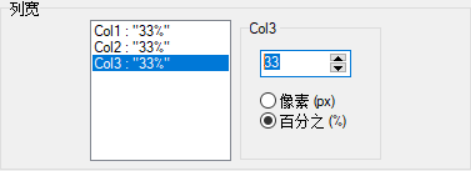
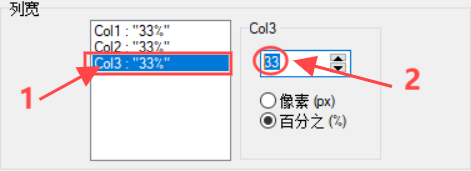
1

diff --git a/编辑守则/示范页面/第二卷_神话神祗.htm b/编辑守则/示范页面/第二卷_神话神祗.htm
@@ -1,0 +1,46 @@
+<!-- coding: gbk --><!DOCTYPE HTML PUBLIC "-//W3C//DTD HTML 4.01 Transitional//EN">
+<html>
+<head>
+<title>第二卷 神话神祗</title>
+<meta name="GENERATOR" content="WinCHM">
+<meta http-equiv="Content-Type" content="text/html; charset=UTF-8">
+<style>
+html,body { 
+	font-family: Arial, Helvetica, sans-serif;
+}
+</style>
+
+</head>
+
+<body>
+<P><STRONG><FONT color=#800000 size=5>前言</FONT></STRONG></P>
+<P>新手守秘人与初接触克苏鲁神话的人起初可能会对于本卷中庞大的条目数量感到无所适从。最好的建议就是反复翻阅这些内容，理解其中信息，然后不断回头查阅，为准备游戏和设计战役与模组获取有用的资料与灵感。</P>
+<P>经验丰富的守秘人和克苏鲁神话迷也可能会在这本书中发现一两处惊喜之处。书中厘清或模糊了一些细节，以更加符合克苏鲁神话的本质。你可以以适合你自己的战役与冒险的方式使用、无视或更改这些条目内容。克苏鲁神话不是一成不变的，也无需以协调一致的方式运行。关于动机、目的、特征与历史的信息可能是相互矛盾、令人难以理解的——这就是重点，克苏鲁神话并不是可知的，它也不应是可知的。</P>
+<P>拥抱那些奇诡、混乱、无可想象之物吧！</P>
+<P align=right>--Mike Mason, 2020</P>
+<P align=right>
+<TABLE style="WIDTH: 100%; BORDER-COLLAPSE: collapse" borderColor=#000000 
+cellSpacing=0 cellPadding=2 width="100%" bgColor=#fffbf0 border=1>
+<TR>
+<TD><H3><FONT style="BACKGROUND-COLOR: #fffbf0" ></FONT>汉森·波普兰爵士的研究日志</H3>
+<P>本书各处散布着汉森·波普兰爵士研究日志的选段。用他本人的话来说：</P>
+<P><STRONG><EM>“我的研究起始于对一个名为克苏鲁的神祇本质的研究。我接触到了一些记录，内容关于 
+      1925 
+      年初发生在太平洋上的一起与“警戒”号货轮有关的重大航运事故。这个研究课题就是由这些记录而引发的。当时我浑然不知，这条研究之路从此将耗尽我的余生！”</EM></STRONG>  </P>
+<P><STRONG><EM>“当我发现克苏鲁似乎是某种遍布全球的复杂神话的核心时，我大为惊讶。因此，我花了八年的时间在世界各处搜寻有关这一怪异神话体系的资料。”</EM></STRONG></P>
+<P><STRONG><EM>“有时，我的研究将我引领到了一些黑暗的地方，我试图建立起联系、总结出结论，结果却令我心烦意乱。我并不是声称自己已经找到了全部的答案，许多路径都将我带进了死胡同，或延伸向了我不敢踏足的领域。”</EM></STRONG></P>
+<P><STRONG><EM>“我提供出我的日志，作为我所学所知的总汇，也是作为那些大多数学者拒绝相信的奥秘的注解与证据。它们同样还是一则警告，但我恐怕自己就是当代的卡珊德拉，受到了诅咒，了解真相却永远不会被同侪相信。”</EM></STRONG></P>
+<P>需要注意的是，汉森爵士的文章本质上仅仅是推测性质的，需要持保留意见看待。不过，其中见解依旧引人入胜、发人深思。本书中的选段并非遵循任何特定的写作顺序；它们只是被安排在适应于正文的位置，并依此相应编排。</P>
+<P><STRONG>注释：</STRONG>如果读者想要联系汉森·波普兰爵士以获取更深入的见解，出版商建议读者联系伦敦梅菲尔区沃德斯顿和弗利蒂克事务所的 
+      R.H. 
+      沃德斯顿先生。他负责管理波普兰家产，以及继续搜寻汉森爵士。出版商要求，任何有关汉森爵士下落的信件也应直接寄给沃德斯顿和弗利蒂克事务所。</P></TD></TR></TABLE>  </P>
+<P></P>
+<P><STRONG><FONT color=#800000 size=5>介绍</FONT></STRONG></P>
+<P>本卷内容为克苏鲁神话中那些怪异恐怖的神祇的详细信息。本卷条目来自于《克苏鲁的呼唤》游戏历史内容，介绍了大量的旧日支配者、外神、旧神、化身与独特存在。书中既出现了众多备受喜爱的神话存在——阿撒托斯、伟大的克苏鲁、撒托古亚、犹格 - 索托斯——也有大量不甚常见的创作，例如比亚提斯、伊德 - 雅、兰·提戈斯和沃尔瓦多斯。尽管并非每位曾为小说与游戏增光添彩的克苏鲁神话神祇都包含于此，不过本卷总计包含 110 条条目，它们共同构成了对于异界存在的生动描绘，为探索未知的调查员带来恐惧与疯狂。</P>
+<P>为方便起见，全书使用“神”“神祇”等术语指代这些庞大的克苏鲁神话存在。所有神祇的条目按照字母表顺序排列，并都经过了调整、修订和更新，大量增加了关于其起源、意旨及与克苏鲁神话整体关系的内容。此外，增添的内容还包括与每一存在相关的教团，可能给予追随者的赐福，以及关于这些存在在模组和战役中可能如何与调查员遭遇、如何影响事件的一些想法。</P>
+<P>每一条目都给出了丰富的信息，旨在让这些存在在游戏桌上更加生动鲜活，并鼓励守秘人以这些怪异骇人的存在为中心创作自己的情节。书中还给出了关于如何自行创造和使用克苏鲁神话神祇的建议，鼓励守秘人进一步扩展克苏鲁神话的边界，在前人优秀作品的基础上继续创作。</P>
+<P>克苏鲁神话对于人类而言是不可知的。我们所知的零碎信息大都来自于罕见而残缺的文本、与巫师和女巫的对话、以及改变命运的遭遇。因此，每一条目都强调了关于对应存在现有的、往往相互冲突的资料，供守秘人自行得出结论，塑造出符合自身对克苏鲁神话概念理解的神话存在。所谓“标准”是零散而不可信赖的。事实上，将旧日支配者这种类似神祇的存在进行区分归类远超出人类能力范畴，不过，在能够应用标准的范围内，我们尽力进行了一定程度的分类，划分出了一个粗略的层级体系。然而，本书所写的任何内容都应以保留意见看待，因为克苏鲁神话是易受影响、常有变化而充满主观因素的。</P>
+<P>本书建立在 Scott David Aniolowski 奉献心血与研究于 2006 年完成的第一版《怪物之锤》基础之上。与第一版相比，新版本旨在为玩家和希望对克苏鲁神话有深入了解的人提供更多可以消化理解的内容。总之，我们希望你能在书中发现新奇的、出乎意料的、引起兴趣的内容，能够将克苏鲁神话存在恐怖的风采生动而完全地展现在你的游戏之中。</P>
+<P>最后，感谢自洛夫克拉夫特起与我们分享幻想与梦魇的所有作家、画师与创作者，没有他们就不会有克苏鲁。希望你能汲取他们的灵感，并从中受到启发。</P>
+</body>
+</html>

diff --git a/Winchm/为页面添加其他元素.htm b/Winchm/为页面添加其他元素.htm
@@ -86,14 +86,56 @@ cellSpacing=0 cellPadding=2 width="100%" bgColor=#fffbf0 border=1><TR>
 <P><IMG border=1 alt="" src="images/91.png" width="70%"></P>
 <H4>编辑表格属性</H4>
 <P>下面我们介绍如何编辑整个表格的属性。</P>
+<P>首先右键点击表格然后在弹窗里选择【表格属性...】。</P>
 <P><IMG border=1 alt="" src="images/92.png" width="70%"></P>
+<P>然后会出现下图所示的弹窗。在 winchm 里可编辑的属性如下图所示（但是行和列没法在这个弹窗里编辑，应该是 
+bug）。但在不全书里，绝大多数情况只用编辑表格的列宽。</P>
+<P>注意的是，为了不同的设备，表格宽度后面的单位是百分比（意思是在阅读器页面的占比），而不是 xp（像素）。</P>
 <P><IMG border=1 alt="" src="images/93.png" width="70%"></P>
+<H4>编辑表格列宽</H4>
+<P>除非列与列之间的字数差距十分巨大，为了更良好美观的阅读体验，表格内列宽要保持一致。</P>
+<P>在列宽这里，白框中每行【Col：】都代表着一列，点击其中一个【Col：】，然后再在右边进行编辑。</P>
+<P>计算100除以该表格的列数，然后向下取整，将取整得来的数填入【Col：】中。此外编辑时要确认下面勾选的是【百分比（%）】。</P>
 <P><IMG border=1 alt="" src="images/94.png" width="70%"></P>
+<P>然后点击应用，就可以更改表格分布了。</P>
 <P><IMG border=1 alt="" src="images/95.png" width="70%"></P>
+<H4>编辑单元格属性</H4>
+<P>如果我们不想选中全部的表格，只是想单独编辑某个单元格或者某行某列的话，我们右键点击要编辑的地方，然后点击【单元格属性】。</P>
 <P><IMG border=1 alt="" src="images/96.png" width="70%"></P>
-<P><IMG border=1 alt="" src="images/97.png" width="70%"></P>
+<P>然后就会出现如下图所示的弹窗，在红框内勾选就能编辑对应的选项。</P>
 <P><IMG border=1 alt="" src="images/98.png" width="70%"></P>
+<H4>编辑单元格背景颜色</H4>
+<P>在一般时候，我们会编辑单元格颜色，以突出文字。</P>
+<P>首先，按照上面的步骤打开编辑单元格弹窗。在选中要编辑的选项后，勾选背景色。</P>
+<P>然后在旁边的文本框内填入颜色值（也就是一种颜色对应的代码），或者是点击右边的颜色区块在新弹窗内选择颜色。</P>
+<P><IMG border=1 alt="" src="images/97.png" width="70%"></P>
+<P>一般来讲表格用上的颜色如下：</P>
+<P>
+<TABLE style="BORDER-COLLAPSE: collapse" borderColor=#000000 cellSpacing=0 
+cellPadding=2 width="50%" bgColor=#f5c589 border=1>
+  
+  <TR>
+    <TD>&nbsp;#f5c589</TD></TR></TABLE>用在表头</P>
+<P>
+<TABLE style="BORDER-COLLAPSE: collapse" borderColor=#000000 cellSpacing=0 
+cellPadding=2 width="50%" bgColor=#fffbf0 border=1>
+  
+  <TR>
+    <TD>&nbsp;#fffbf0</TD></TR></TABLE></P>
+<P>
+<TABLE style="BORDER-COLLAPSE: collapse" borderColor=#000000 cellSpacing=0 
+cellPadding=2 width="50%" bgColor=#ffffff border=1>
+  
+  <TR>
+    <TD>&nbsp;#ffffff</TD></TR></TABLE>以上两种颜色轮流穿插于表格中。</P>
+<P>学会上面的步骤后，就可以编辑如下图所示一样美观的表格了！</P>
 <P><IMG border=1 alt="" src="images/99.png" width="70%"></P>
-<P><IMG border=1 alt="" src="images/100.png" width="70%"></P>
+<P>
+<TABLE border=1 style="WIDTH: 100%; BORDER-COLLAPSE: collapse" borderColor=#000000 cellSpacing=0 cellPadding=2 bgColor=#fffbf0 width="100%">
+<TR>
+<TD><H4>进阶：编辑更复杂的表格</H4><P>&nbsp;winchm 编辑表格的功能十分有限，单在 winchm 
+      上没法实现跨行、跨列单元格的功能，如果你想制作跟下图一样精美的表格的话，请查看<STRONG>从源代码编辑不全书：表格</STRONG>部分。</P>
+</TD></TR></TABLE></P>
+<P><IMG border=1 alt="" src="images/100.png" width="100%"></P>
 </body>
 </html>

diff --git a/编辑守则/示范页面/创建调查员.htm b/编辑守则/示范页面/创建调查员.htm
@@ -1,0 +1,33 @@
+<!DOCTYPE HTML PUBLIC "-//W3C//DTD HTML 4.01 Transitional//EN">
+<html>
+<head>
+<title>创建调查员</title>
+<meta name="GENERATOR" content="WinCHM">
+<meta http-equiv="Content-Type" content="text/html; charset=UTF-8">
+<style>
+html,body { 
+	/* Default Font */
+	font-family: Arial, Helvetica, sans-serif;
+	
+}
+</style>
+
+</head>
+
+<body>
+<P><STRONG><FONT color=#800000 size=5>创建调查员</FONT></STRONG></P>
+<P><EM>在所有冲击中最为凶恶的，是那完全出乎意料、难以置信的恐怖。我曾经历过的一切恐怖都不及如今所见，不及这图景中蕴含着的离奇与惊异。<BR>——H.P. 洛夫克拉夫特《异乡人》</FONT> 
+</EM></P>
+<P><STRONG><FONT color=#800000 size=5>关于本章</FONT></STRONG></P>
+<P>在《克苏鲁的呼唤》里，每位玩家都将扮演一位调查员，他们的使命是挖掘深埋的秘密，探索被遗忘之地，以人类不应知晓的禁忌知识武装自己，正面对抗来自克苏鲁神话的恐怖之物。</P>
+<P>作为一个团队，调查员们可能来自不同的背景，拥有不同的职业——每个人都会给团队带来不同的专业知识。为了同伴情义与共同的目标，你们将坚定地面对即将袭来的黑暗潮汐。</P>
+<P>本章提供用于创建调查员角色的规则。在本章末尾，你可以找到一些创建调查员的变体方案，以及一张两页的大跨页，它将提供规则摘要以供速查。</P>
+<P><FONT style="BACKGROUND-COLOR: #f7eebd">
+<TABLE style="BORDER-COLLAPSE: collapse" borderColor=#000000 cellSpacing=0 
+cellPadding=2 width="100%" bgColor=#fffbf0 border=1>
+  
+<TR>
+  <TD>
+      <P><FONT style="BACKGROUND-COLOR: #fffbf0" >从零开始创建自己的调查员可谓充满了乐趣，这些规则将详细说明如何为调查员投掷数据，选择职业和技能，设定个人经历。在开始玩《克苏鲁的呼唤》时，建议所有玩家一同为他们的调查员进行“掷骰”，并和守秘人一起确定各自调查员的职责——这将帮助每位调查员都“来自”同一团队，承担不同的职责，以确保技能和职业分布平衡。</P></TD></TR></TABLE><BR></P></FONT></body><BR>
+<BR>
+</html>

diff --git a/编辑守则/编辑守则.htm b/编辑守则/编辑守则.htm
@@ -1,0 +1,25 @@
+<!-- coding: gbk --><!DOCTYPE HTML PUBLIC "-//W3C//DTD HTML 4.01 Transitional//EN">
+<html>
+<head>
+<title>编辑守则</title>
+<meta name="GENERATOR" content="WinCHM">
+<meta http-equiv="Content-Type" content="text/html; charset=UTF-8">
+<style>
+html,body { 
+	font-family: Arial, Helvetica, sans-serif;
+}
+</style>
+
+</head>
+
+<body>
+<P><STRONG><FONT color=#800000 size=5>编辑守则</FONT></STRONG></P>
+<P>我们在上面已经介绍了如何参与项目，与如何编辑不全书了，下面我们将会介绍编辑 COC 
+不全书时要遵守哪些规范。</P>
+<P>  
+优秀示范页面：</P>
+<P>  
+守秘人规则书\创建调查员\创建你的调查员\创造背景</P>
+<P>  
+&nbsp;</P></body>
+</html>

diff --git a/编辑守则/示范页面/武装20年代调查员.htm b/编辑守则/示范页面/武装20年代调查员.htm
@@ -1,0 +1,21 @@
+<!-- coding: gbk --><!DOCTYPE HTML PUBLIC "-//W3C//DTD HTML 4.01 Transitional//EN">
+<html>
+<head>
+<title>武装20年代调查员</title>
+<meta name="GENERATOR" content="WinCHM">
+<meta http-equiv="Content-Type" content="text/html; charset=UTF-8">
+<style>
+html,body { 
+	font-family: Arial, Helvetica, sans-serif;
+}
+</style>
+
+</head>
+
+
+<body>
+<P><STRONG><FONT color=#800000 size=5>武装20年代调查员</FONT></STRONG></P>
+<P>以下是一系列对调查员十分有用的道具。1920年代<A 
+href="../10.附录/不同历史时期的装备、旅行与武器价格.htm">道具表（10.3节，IH238-247）</A>也为调查员提供了丰富的货物、服务和装备。</P></body>
+</html>
+  

diff --git a/编辑守则/1.格式一致.htm b/编辑守则/1.格式一致.htm
@@ -1,0 +1,18 @@
+<!-- coding: gbk --><!DOCTYPE HTML PUBLIC "-//W3C//DTD HTML 4.01 Transitional//EN">
+<html>
+<head>
+<title>格式一致</title>
+<meta name="GENERATOR" content="WinCHM">
+<meta http-equiv="Content-Type" content="text/html; charset=UTF-8">
+<style>
+html,body { 
+	font-family: Arial, Helvetica, sans-serif;
+}
+</style>
+
+</head>
+
+<body>
+<P><STRONG><FONT color=#800000 size=5>格式一致</FONT></STRONG></P>
+<P>然后是正文</P></body>
+</html>

diff --git a/编辑守则/4.做到美观.htm b/编辑守则/4.做到美观.htm
@@ -1,0 +1,18 @@
+<!-- coding: gbk --><!DOCTYPE HTML PUBLIC "-//W3C//DTD HTML 4.01 Transitional//EN">
+<html>
+<head>
+<title>做到美观</title>
+<meta name="GENERATOR" content="WinCHM">
+<meta http-equiv="Content-Type" content="text/html; charset=UTF-8">
+<style>
+html,body { 
+	font-family: Arial, Helvetica, sans-serif;
+}
+</style>
+
+</head>
+
+<body>
+<P><STRONG><FONT color=#800000 size=5>做到美观</FONT></STRONG></P>
+<P>然后是正文</P></body>
+</html>

diff --git a/编辑守则/5.规范编辑.htm b/编辑守则/5.规范编辑.htm
@@ -1,0 +1,18 @@
+<!-- coding: gbk --><!DOCTYPE HTML PUBLIC "-//W3C//DTD HTML 4.01 Transitional//EN">
+<html>
+<head>
+<title>规范编辑</title>
+<meta name="GENERATOR" content="WinCHM">
+<meta http-equiv="Content-Type" content="text/html; charset=UTF-8">
+<style>
+html,body { 
+	font-family: Arial, Helvetica, sans-serif;
+}
+</style>
+
+</head>
+
+<body>
+<P><STRONG><FONT color=#800000 size=5>规范编辑</FONT></STRONG></P>
+<P>然后是正文</P></body>
+</html>

diff --git a/编辑守则/2.查阅为上.htm b/编辑守则/2.查阅为上.htm
@@ -1,0 +1,18 @@
+<!-- coding: gbk --><!DOCTYPE HTML PUBLIC "-//W3C//DTD HTML 4.01 Transitional//EN">
+<html>
+<head>
+<title>工具性</title>
+<meta name="GENERATOR" content="WinCHM">
+<meta http-equiv="Content-Type" content="text/html; charset=UTF-8">
+<style>
+html,body { 
+	font-family: Arial, Helvetica, sans-serif;
+}
+</style>
+
+</head>
+
+<body>
+<P><STRONG><FONT color=#800000 size=5>工具性</FONT></STRONG></P>
+<P>然后是正文</P></body>
+</html>

diff --git a/编辑守则/3.保留原文.htm b/编辑守则/3.保留原文.htm
@@ -1,0 +1,18 @@
+<!-- coding: gbk --><!DOCTYPE HTML PUBLIC "-//W3C//DTD HTML 4.01 Transitional//EN">
+<html>
+<head>
+<title>还原性</title>
+<meta name="GENERATOR" content="WinCHM">
+<meta http-equiv="Content-Type" content="text/html; charset=UTF-8">
+<style>
+html,body { 
+	font-family: Arial, Helvetica, sans-serif;
+}
+</style>
+
+</head>
+
+<body>
+<P><STRONG><FONT color=#800000 size=5>还原性</FONT></STRONG></P>
+<P>然后是正文</P></body>
+</html>
